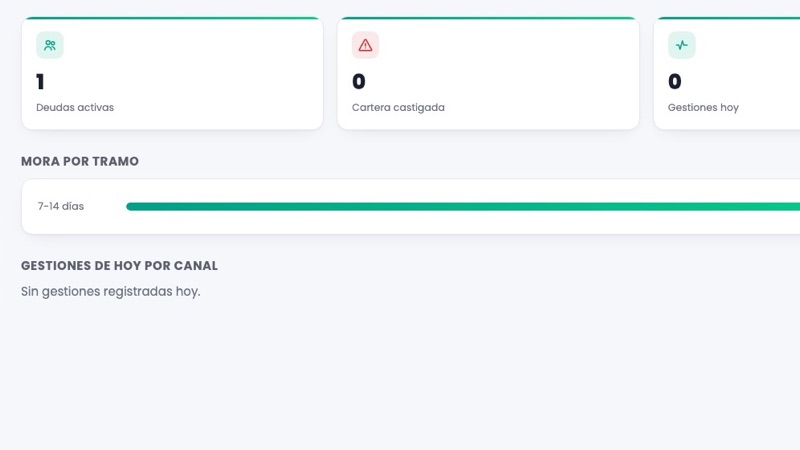
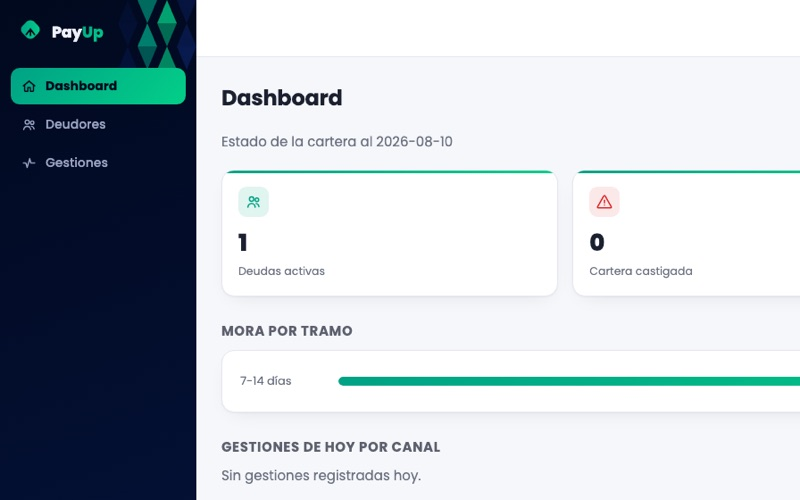
Home y PayUp: tarjetas 4 + 3, sin panel en producción, banda RiskTech más corta
Transformación digital pasa a 4 columnas en escritorio (2 en pantallas
medianas) y la tarjeta de PayUp muestra el panel con su logo. La página
de PayUp ya no tiene la sección "El panel, en producción" ni sus capturas.
En la banda de RiskTech se quita el texto de AMLRisk 2007.

diff --git a/index.html b/index.html
@@ -17,8 +17,8 @@
 
 <script>if(matchMedia("(max-width: 820px), (hover: none)").matches)document.documentElement.classList.add("is-lite")</script>
 <link rel="stylesheet" href="css/styles.css" />
-<link rel="stylesheet" href="css/dinamico.css?v=16" />
-<link rel="stylesheet" href="css/interactivo.css?v=53" />
+<link rel="stylesheet" href="css/dinamico.css?v=17" />
+<link rel="stylesheet" href="css/interactivo.css?v=54" />
 
 <!-- El fondo del hero es LCP: se precarga para que pinte cuanto antes. -->
 <link rel="preload" as="image" href="assets/img/fondos/hero-bg-1600.avif" type="image/avif" media="(min-width: 901px)" />
@@ -596,7 +596,6 @@
         <div class="rt-band__text">
           <span class="rt-band__kicker">Prevención de fraude y AML</span>
           <h2 id="risktech-title">¿Tu reto es el fraude o el lavado de activos? <span class="accent">Conoce RiskTech.</span></h2>
-          <p>Creamos AMLRisk en 2007. Hoy RiskTech centraliza la prevención de fraude y AML en una sola plataforma con IA.</p>
           <ul class="rt-band__chips"><li>AMLRISK</li><li>FRAML MS AML</li><li>FRAML MS AntiFraud</li><li>FRAML Alert Defense</li></ul>
         </div>
         <a href="https://risktech.com.co/" class="btn btn--primary" target="_blank" rel="noopener">Visitar RiskTech <svg viewBox="0 0 24 24" fill="none" aria-hidden="true"><path d="M7 17L17 7M17 7H8M17 7v9" stroke="currentColor" stroke-width="2" stroke-linecap="round" stroke-linejoin="round"/></svg></a>

diff --git a/css/dinamico.css b/css/dinamico.css
@@ -2074,6 +2074,17 @@
   background: linear-gradient(165deg, rgba(20, 54, 128, 0.9), rgba(1, 9, 30, 0.95));
 }
 
+/* 7 tarjetas: 4 + 3 en escritorio, 2 por fila en pantallas medianas */
+#transformacion-digital .services__grid { --cols: 4; max-width: none; }
+
+@media (max-width: 1100px) {
+  #transformacion-digital .services__grid { --cols: 2; max-width: 976px; }
+}
+
+@media (max-width: 560px) {
+  #transformacion-digital .services__grid { --cols: 1; }
+}
+
 #transformacion-digital .service-card__media {
   margin: 10px 10px 0;
   border-radius: 12px;
